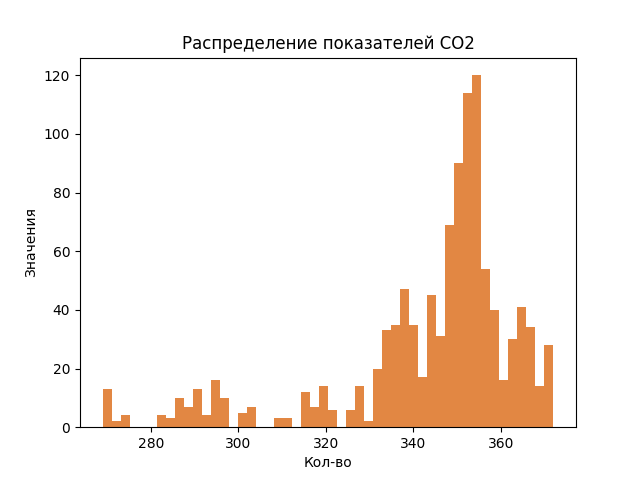
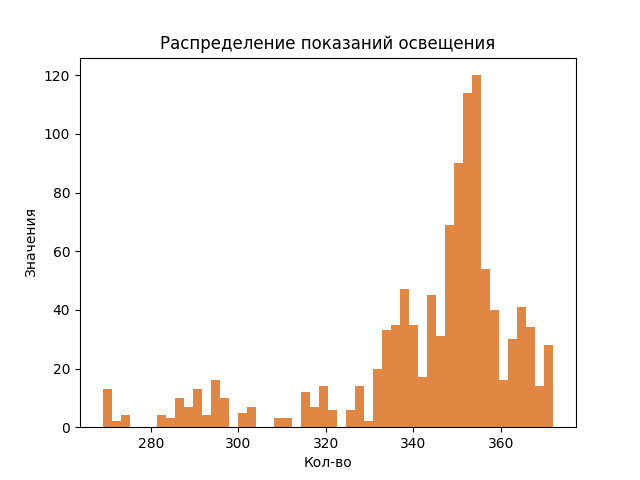
Правки

Changed region(s): [[0.25, 0.0625, 0.7812, 0.125]]

diff --git a/prac8/main_graphics.py b/prac8/main_graphics.py
@@ -49,6 +49,6 @@ if __name__ == '__main__':
               '< 23.0 В.': len(([el for el in yVin if el < 23.0 ]))}
     
     lineplot(xAxis, yCO2, 'Время, c', "Показатели", "Изменения показателя датчика СО2\n(первые 100 зн. забракованы)")
-    histogram(yIlluminance, 50, 'Кол-во', 'Значения', 'Распределение показателей СО2')
+    histogram(yIlluminance, 50, 'Кол-во', 'Значения', 'Распределение показаний освещения')
     circular(groups.values(), groups.keys(), 'Кгруговая диаграмма Vin (~24В)')
 
